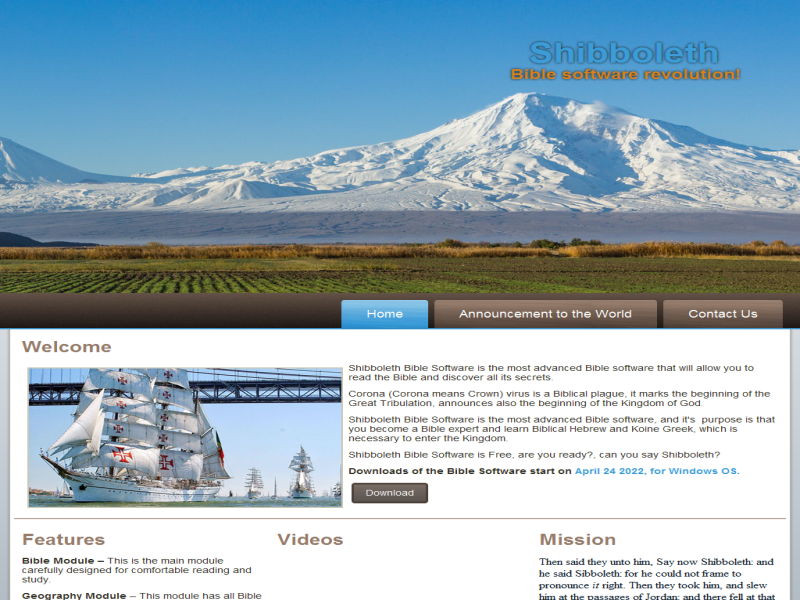
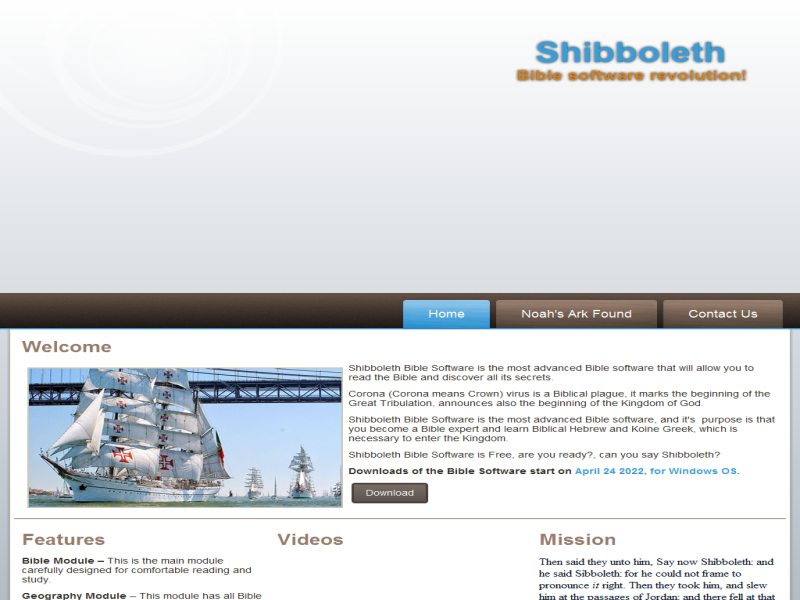
5

diff --git a/noahs-ark-found.html b/noahs-ark-found.html
@@ -1,0 +1,79 @@
+<!DOCTYPE html>
+<html dir="ltr" lang="en-US"><head><!-- Created by Artisteer v4.3.0.60858 -->
+    <meta charset="utf-8">
+    <title>Announcement to the World</title>
+    <meta name="viewport" content="initial-scale = 1.0, maximum-scale = 1.0, user-scalable = no, width = device-width">
+
+    <!--[if lt IE 9]><script src="https://html5shiv.googlecode.com/svn/trunk/html5.js"></script><![endif]-->
+    <link rel="stylesheet" href="style.css" media="screen">
+    <!--[if lte IE 7]><link rel="stylesheet" href="style.ie7.css" media="screen" /><![endif]-->
+    <link rel="stylesheet" href="style.responsive.css" media="all">
+
+<link rel="shortcut icon" href="favicon.ico" type="image/x-icon">
+    <script src="jquery.js"></script>
+    <script src="script.js"></script>
+    <script src="script.responsive.js"></script>
+<script src="https://www.w3counter.com/tracker.js?id=135801"></script>
+
+
+</head>
+<body>
+<div id="art-main">
+<header class="art-header">
+
+    <div class="art-shapes">
+        
+            </div>
+
+<h1 class="art-headline">
+    <a href="/">Shibboleth</a>
+</h1>
+<h2 class="art-slogan">Bible software revolution!</h2>
+
+
+
+
+
+                        
+                    
+</header>
+<nav class="art-nav">
+    <div class="art-nav-inner">
+    <ul class="art-hmenu"><li><a href="software.html" class="">Home</a></li><li><a href="noahs-ark-found.html" class="active">Noah's Ark Found</a></li><li><a href="contact.html">Contact Us</a></li></ul> 
+        </div>
+    </nav>
+<div class="art-sheet clearfix">
+            <div class="art-layout-wrapper">
+                <div class="art-content-layout">
+                    <div class="art-content-layout-row">
+                        <div class="art-layout-cell art-content"><article class="art-post art-article">
+                                
+                                                
+                <div class="art-postcontent art-postcontent-0 clearfix"><p style="padding-left: 20px; font-weight: 400; background-color: rgb(255, 255, 255);"><span style="font-weight: bold; font-size: 24px; color: rgb(59, 156, 216);">The Shibboleth Group announces the discovery of Noah's Ark.</span></p><p style="padding-left: 20px; background-color: rgb(255, 255, 255);"><span style="color: rgb(153, 153, 153); font-size: 13.0013px; text-align: start; white-space: nowrap; background-color: rgb(255, 255, 255); font-family: Arial; font-weight: bold;">24 Mar, 2022&nbsp;</span></p><p style="text-align: start;padding-left: 20px; background-color: rgb(255, 255, 255);"><span style="color: rgb(153, 153, 153); font-family: Arial; font-size: 13px; font-weight: bold; white-space: nowrap;"><br></span></p><p class="chapter-1" style="padding-left: 20px; box-sizing: border-box; color: rgb(0, 0, 0); text-align: start; background-color: rgb(255, 255, 255);"><span style="font-weight: bold; font-size: 16px;">The Shibboleth Group announces that &nbsp;we have found Noah's Ark has on Mount Ararat, exactly where the Bible says, and in the next days we will publish the first pictures of the site.</span></p><p class="chapter-1" style="padding-left: 20px; box-sizing: border-box; color: rgb(0, 0, 0); text-align: start; background-color: rgb(255, 255, 255);"><span style="font-weight: bold; font-size: 16px;">The Shibboleth Group announces to the World that the Tabernacle of Moses is actually a 1/361 scale model of the Ararat Plain, including Mount Ararat and Little Ararat.</span></p><p class="chapter-1" style="padding-left: 20px; box-sizing: border-box; color: rgb(0, 0, 0); text-align: start; background-color: rgb(255, 255, 255);"><span style="font-size: 16px; font-weight: bold;">The Tabernacle of Moses is actually a 3D Map, with exact proportions and orientation, using this map we were able to find the exact location of Noah's Ark.</span></p><p class="chapter-1" style="padding-left: 20px; box-sizing: border-box; color: rgb(0, 0, 0); text-align: start; background-color: rgb(255, 255, 255);"><iframe class="rumble" width="640" height="360" src="https://rumble.com/embed/vvol55/?pub=111wn3" frameborder="0" allowfullscreen=""></iframe></p><p class="chapter-1" style="padding-left: 20px; box-sizing: border-box; color: rgb(0, 0, 0); text-align: start; background-color: rgb(255, 255, 255);">Mount Ararat is a stratovolcano, similar to Mount Vesuvius that preserverd Pompey, there were 4 eruptions recorded in history the first in 2500 BC, the Second in 550 BC, the last in 1840. The Ark was preserved under 4 layers of Ash.</p><p class="chapter-1" style="padding-left: 20px; box-sizing: border-box; color: rgb(0, 0, 0); text-align: start; background-color: rgb(255, 255, 255);"><img width="700" height="358" alt="" class="art-lightbox" src="images/ark.png"><br></p><p class="chapter-1" style="padding-left: 20px; box-sizing: border-box; color: rgb(0, 0, 0); text-align: start; background-color: rgb(255, 255, 255);"><br></p><p class="chapter-1" style="padding-left: 20px; box-sizing: border-box; color: rgb(0, 0, 0); text-align: start; background-color: rgb(255, 255, 255);">This discovery confirms what the Bible says:</p><p class="chapter-1" style="margin-top: 12px; margin-right: 0px; margin-bottom: 12px; margin-left: 0px; padding-top: 0px; padding-right: 0px; padding-bottom: 0px; padding-left: 20px; box-sizing: border-box; color: rgb(0, 0, 0); text-align: start; background-color: rgb(255, 255, 255);"><span style="font-weight: bold; font-size: 16px; color: rgb(59, 156, 216);">Genesis 8:4</span></p><p class="chapter-1" style="margin-top: 12px; margin-right: 0px; margin-bottom: 12px; margin-left: 0px; padding-top: 0px; padding-right: 0px; padding-bottom: 0px; padding-left: 20px; box-sizing: border-box; text-align: start; background-color: rgb(255, 255, 255);"><span style="font-size: 16px; font-weight: bold; color: rgb(59, 156, 216);">And the ark rested in the seventh month, on the seventeenth day of the month, upon the mountains of Ararat.</span></p><p class="chapter-1" style="margin-top: 12px; margin-right: 0px; margin-bottom: 12px; margin-left: 0px; padding-top: 0px; padding-right: 0px; padding-bottom: 0px; padding-left: 20px; box-sizing: border-box; text-align: start; background-color: rgb(255, 255, 255);"><span style="font-size: 16px; font-weight: bold; color: rgb(59, 156, 216);"><br></span></p><p class="chapter-1" style="padding-left: 20px; box-sizing: border-box; color: rgb(0, 0, 0); text-align: start; background-color: rgb(255, 255, 255);"><img width="965" height="603" alt="" class="art-lightbox" src="images/ark2.png"><br></p><p class="chapter-1" style="padding-left: 20px; box-sizing: border-box; color: rgb(0, 0, 0); text-align: start; background-color: rgb(255, 255, 255);"><br></p><p class="chapter-1" style="padding-left: 20px; box-sizing: border-box; color: rgb(0, 0, 0); text-align: start; background-color: rgb(255, 255, 255);">We also announce that Mount Ararat and Little Ararat are actually an Astronomical machine, designed precisely, that ONLY on december 24 every year the sun rises over Little Ararat watching from the summit of Mount Ararat.</p><p class="chapter-1" style="padding-left: 20px; box-sizing: border-box; color: rgb(0, 0, 0); text-align: start; background-color: rgb(255, 255, 255);">This is very important, first this confirms that this is the Authentic place Where the Ark rested, Little Ararat is represented by the Burnt offering Altar that represents JESUS, and Jesus' birth date is confirmed as december 24.</p><p class="chapter-1" style="padding-left: 20px; box-sizing: border-box; color: rgb(0, 0, 0); text-align: start; background-color: rgb(255, 255, 255);"><br></p><p class="chapter-1" style="padding-left: 20px; box-sizing: border-box; color: rgb(0, 0, 0); text-align: start; background-color: rgb(255, 255, 255);"><img width="699" height="393" alt="" class="art-lightbox" src="images/Untitled_snapshot_03-24-2022_17_29_49.jpeg"><br></p><p class="chapter-1" style="padding-left: 20px; box-sizing: border-box; color: rgb(0, 0, 0); text-align: start; background-color: rgb(255, 255, 255);">This without doubt is the greatest discovery in Human History and it's implications are uncalculable.</p><p class="chapter-1" style="padding-left: 20px; box-sizing: border-box; color: rgb(0, 0, 0); text-align: start; background-color: rgb(255, 255, 255);"><br></p><p class="chapter-1" style="padding-left: 20px; box-sizing: border-box; color: rgb(0, 0, 0); text-align: start; background-color: rgb(255, 255, 255);"><a href="https://earth.google.com/web/search/39.7270965,+44.2370825/@39.72606185,44.23484865,3291.25965016a,4353.94615716d,35y,133.11970686h,45.02264945t,0r/data=CloaMBIqGZ1EhH8R3UNAIRr6J7hYHkZAKhYzOS43MjcwOTY1LCA0NC4yMzcwODI1GAIgASImCiQJD9YckDPfQ0ARY_T9IZjZQ0AZsMaASTAnRkAhj6zy8C8YRkA">Click here to See on Google Earth</a></p><p class="chapter-1" style="padding-left: 20px; box-sizing: border-box; color: rgb(0, 0, 0); text-align: start; background-color: rgb(255, 255, 255);"><br></p><p class="media-description" style="margin-top: 1rem; margin-right: 0px; margin-bottom: 1rem; margin-left: 0px; orphans: 2; text-align: start; text-indent: 0px; widows: 2; padding-left: 20px;"><a href="https://mybible.eu.org/kml/ararat.kml"></a><span style="color: rgb(51, 51, 51); font-size: 16px; line-height: 32px;"></span></p><p class="media-description" style="margin-top: 1rem; margin-right: 0px; margin-bottom: 1rem; margin-left: 0px; orphans: 2; text-align: start; text-indent: 0px; widows: 2; padding-left: 20px;"><span style="color: rgb(51, 51, 51); font-size: 16px; line-height: 32px;">Coordinates:&nbsp;</span><span style="color: rgb(51, 51, 51); font-size: 16px; line-height: 32px;">39.7270965, 44.2370825</span></p><p class="media-description" style="margin-top: 1rem; margin-right: 0px; margin-bottom: 1rem; margin-left: 0px; orphans: 2; text-align: start; text-indent: 0px; widows: 2; padding-left: 20px;"><span style="color: rgb(51, 51, 51); font-size: 16px; line-height: 32px;">Armenian Geographic will send an expedition to the site site and publish the first pictures.</span></p><p class="media-description" style="margin-top: 1rem; margin-right: 0px; margin-bottom: 1rem; margin-left: 0px; orphans: 2; text-align: start; text-indent: 0px; widows: 2; padding-left: 20px;"><a href="https://www.armgeo.am/en/our-project/">https://www.armgeo.am/en/climbing-ararat/</a><span style="color: rgb(51, 51, 51); font-size: 16px; line-height: 32px;"><br></span></p><p class="media-description" style="margin-top: 1rem; margin-right: 0px; margin-bottom: 1rem; margin-left: 0px; orphans: 2; text-align: start; text-indent: 0px; widows: 2; padding-left: 20px;"><a href="https://www.mountain-forecast.com/peaks/Mount-Ararat/forecasts/5137">https://www.mountain-forecast.com/peaks/Mount-Ararat/forecasts/5137</a><br></p><p class="media-description" style="margin-top: 1rem; margin-right: 0px; margin-bottom: 1rem; margin-left: 0px; orphans: 2; text-align: start; text-indent: 0px; widows: 2; padding-left: 20px;"><br></p><p class="media-description" style="margin-top: 1rem; margin-right: 0px; margin-bottom: 1rem; margin-left: 0px; orphans: 2; text-align: start; text-indent: 0px; widows: 2; padding-left: 20px;"><br></p><p class="media-description" style="margin-top: 1rem; margin-right: 0px; margin-bottom: 1rem; margin-left: 0px; orphans: 2; text-align: start; text-indent: 0px; widows: 2; padding-left: 20px;"><span style="font-weight: bold; color: #E2341D;">Very Short Briefing:</span></p><p class="media-description" style="margin-top: 1rem; margin-right: 0px; margin-bottom: 1rem; margin-left: 0px; orphans: 2; text-align: start; text-indent: 0px; widows: 2; padding-left: 20px;"><span style="font-weight: bold;"><br></span></p><p class="media-description" style="margin-top: 1rem; margin-right: 0px; margin-bottom: 1rem; margin-left: 0px; orphans: 2; text-align: start; text-indent: 0px; widows: 2; padding-left: 20px;">When you have been working with the Tabernacle a lot, you immediately note that the Ararat plain looks like the Tabernacle of Moses, the tabernacle, if you ever read the Bible, has very specific proportions, so Noah's Ark.</p><p class="media-description" style="margin-top: 1rem; margin-right: 0px; margin-bottom: 1rem; margin-left: 0px; orphans: 2; text-align: start; text-indent: 0px; widows: 2; padding-left: 20px;">&nbsp;<img width="700" height="465" alt="" class="art-lightbox" src="images/0902175221963-c65c2257-e3d0-43bb-8d62-c9cdc3336596.jpg"><br></p><p class="media-description" style="margin-top: 1rem; margin-right: 0px; margin-bottom: 1rem; margin-left: 0px; orphans: 2; text-align: start; text-indent: 0px; widows: 2; padding-left: 20px;"><img width="700" height="466" alt="" class="art-lightbox" src="images/Tabernacle-exterior01a.jpg"><br></p><p class="media-description" style="margin-top: 1rem; margin-bottom: 1rem; padding-left: 20px; text-align: start;">The tabernacle of Moses is a map and was made with specific dimensions, so some Christian reading the Bible would eventually locate Noah's Ark, using the Map.</p><p class="media-description" style="margin-top: 1rem; margin-bottom: 1rem; padding-left: 20px; text-align: start;">The Tabernacle Tent represents Mount Ararat and the Altar of the burnt offering represents little Ararat.</p><p class="media-description" style="margin-top: 1rem; margin-bottom: 1rem; padding-left: 20px; text-align: start;"><br></p><p class="media-description" style="margin-top: 1rem; margin-bottom: 1rem; padding-left: 20px; text-align: start;">First, the proportions must be the same let's see, lets measure mount Ararat's and little Ararat heights (prominence over the Ararat plain)</p><p class="media-description" style="margin-top: 1rem; margin-bottom: 1rem; padding-left: 20px; text-align: start;"><br></p><p class="media-description" style="margin-top: 1rem; margin-bottom: 1rem; padding-left: 20px; text-align: start;"><span style="font-family: Arial;">Mount ararat prominence=&nbsp;<span style="color: rgb(0, 0, 0); font-weight: 400; text-align: left; background-color: rgb(248, 249, 250);">3,611 M</span></span></p><p class="media-description" style="margin-top: 1rem; margin-bottom: 1rem; padding-left: 20px; text-align: start;"><span style="font-family: Arial;"><span style="color: rgb(0, 0, 0); font-weight: 400; text-align: left; background-color: rgb(248, 249, 250);">Little Ararat Prominence = 1200M</span></span></p><p class="media-description" style="margin-top: 1rem; margin-bottom: 1rem; padding-left: 20px; text-align: start;"><br></p><p class="media-description" style="margin-top: 1rem; margin-bottom: 1rem; padding-left: 20px; text-align: start;"><span style="font-family: Arial;"><span style="color: rgb(0, 0, 0); font-weight: 400; text-align: left; background-color: rgb(248, 249, 250);">ratio = 3611/1200 = 3.009</span></span></p><p class="media-description" style="margin-top: 1rem; margin-bottom: 1rem; padding-left: 20px; text-align: start;"><br></p><p class="media-description" style="margin-top: 1rem; margin-bottom: 1rem; padding-left: 20px; text-align: start;"><span style="font-family: Arial;"><span style="color: rgb(0, 0, 0); font-weight: 400; text-align: left; background-color: rgb(248, 249, 250);">Tabernacle Height= 10 cubits</span></span></p><p class="media-description" style="margin-top: 1rem; margin-bottom: 1rem; padding-left: 20px; text-align: start;"><span style="font-family: Arial;"><span style="color: rgb(0, 0, 0); font-weight: 400; text-align: left; background-color: rgb(248, 249, 250);">Altar of burnt offering height= 3 cubits</span></span></p><p class="media-description" style="margin-top: 1rem; margin-bottom: 1rem; padding-left: 20px; text-align: start;"><br></p><p class="media-description" style="margin-top: 1rem; margin-bottom: 1rem; padding-left: 20px; text-align: start;"><span style="font-family: Arial;"><span style="color: rgb(0, 0, 0); font-weight: 400; text-align: left; background-color: rgb(248, 249, 250);">ratio = 10/3 = 3.33</span></span></p><p class="media-description" style="margin-top: 1rem; margin-bottom: 1rem; padding-left: 20px; text-align: start;"><br></p><p class="media-description" style="margin-top: 1rem; margin-bottom: 1rem; padding-left: 20px; text-align: start;"><span style="font-family: Arial;"><span style="color: rgb(0, 0, 0); font-weight: 400; text-align: left; background-color: rgb(248, 249, 250);">So far so good, good approximation, the approximation is even better, but this will be explained later.</span></span></p><p class="media-description" style="text-align: left;margin-top: 1rem; margin-bottom: 1rem; padding-left: 20px;"><span style="color: rgb(0, 0, 0); font-family: Arial;"><br></span></p><p class="media-description" style="margin-top: 1rem; margin-right: 0px; margin-bottom: 1rem; margin-left: 0px; orphans: 2; text-align: start; text-indent: 0px; widows: 2; padding-left: 20px;">The orientation:</p><p class="media-description" style="margin-top: 1rem; margin-right: 0px; margin-bottom: 1rem; margin-left: 0px; orphans: 2; text-align: start; text-indent: 0px; widows: 2; padding-left: 20px;">Being the Tabernacle a scale model of the Ararat Plain, and the tabernacle has a specific orientation, this must be the same orientation for Mount Ararat and Little ararat.</p><p class="media-description" style="margin-top: 1rem; margin-right: 0px; margin-bottom: 1rem; margin-left: 0px; orphans: 2; text-align: start; text-indent: 0px; widows: 2; padding-left: 20px;"><br></p><p class="media-description" style="margin-top: 1rem; margin-right: 0px; margin-bottom: 1rem; margin-left: 0px; orphans: 2; text-align: start; text-indent: 0px; widows: 2; padding-left: 20px;"><img width="500" height="283" alt="" class="art-lightbox" src="images/1.jpg"><br></p><p class="media-description" style="margin-top: 1rem; margin-right: 0px; margin-bottom: 1rem; margin-left: 0px; orphans: 2; text-align: start; text-indent: 0px; widows: 2; padding-left: 20px;">The orientation was determined by the sunrise.</p><p class="media-description" style="margin-top: 1rem; margin-right: 0px; margin-bottom: 1rem; margin-left: 0px; orphans: 2; text-align: start; text-indent: 0px; widows: 2; padding-left: 20px;">So the Sun must rise over the Altar of the burnt offering watching from the summit of Mount Ararat.</p><p class="media-description" style="margin-top: 1rem; margin-right: 0px; margin-bottom: 1rem; margin-left: 0px; orphans: 2; text-align: start; text-indent: 0px; widows: 2; padding-left: 20px;">Lets see:</p><p class="media-description" style="margin-top: 1rem; margin-right: 0px; margin-bottom: 1rem; margin-left: 0px; orphans: 2; text-align: start; text-indent: 0px; widows: 2; padding-left: 20px;"><iframe class="rumble" width="640" height="360" src="https://rumble.com/embed/vw4dwu/?pub=111wn3" frameborder="0" allowfullscreen=""></iframe><br></p><p class="media-description" style="margin-top: 1rem; margin-right: 0px; margin-bottom: 1rem; margin-left: 0px; orphans: 2; text-align: start; text-indent: 0px; widows: 2; padding-left: 20px;">Remember that the sunrise changes during the year</p><p class="media-description" style="margin-top: 1rem; margin-right: 0px; margin-bottom: 1rem; margin-left: 0px; orphans: 2; text-align: start; text-indent: 0px; widows: 2; padding-left: 20px;">Also the Only day, every year, that the sun rises exactly over Little Ararat is December 24.</p><p class="media-description" style="margin-top: 1rem; margin-right: 0px; margin-bottom: 1rem; margin-left: 0px; orphans: 2; text-align: start; text-indent: 0px; widows: 2; padding-left: 20px;"><br></p><p class="media-description" style="margin-top: 1rem; margin-right: 0px; margin-bottom: 1rem; margin-left: 0px; orphans: 2; text-align: start; text-indent: 0px; widows: 2; padding-left: 20px;">Protection:</p><p class="media-description" style="margin-top: 1rem; margin-right: 0px; margin-bottom: 1rem; margin-left: 0px; orphans: 2; text-align: start; text-indent: 0px; widows: 2; padding-left: 20px;">The Bible says that the Ark was protected by 4 layers, see image</p><p class="media-description" style="margin-top: 1rem; margin-right: 0px; margin-bottom: 1rem; margin-left: 0px; orphans: 2; text-align: start; text-indent: 0px; widows: 2; padding-left: 20px;"><img width="699" height="424" alt="" class="art-lightbox" src="images/2.jpg"><br></p><p class="media-description" style="margin-top: 1rem; margin-right: 0px; margin-bottom: 1rem; margin-left: 0px; orphans: 2; text-align: start; text-indent: 0px; widows: 2; padding-left: 20px;">First layer is fine linen, second layer is Goat's hair, third layer is Ram skin, and the last is Badger skin (very hard).</p><p class="media-description" style="margin-top: 1rem; margin-right: 0px; margin-bottom: 1rem; margin-left: 0px; orphans: 2; text-align: start; text-indent: 0px; widows: 2; padding-left: 20px;">This means that Noah's Ark was protected by 4 volcanic eruptions, first 3 are soft ash, and the last one is a harder lava layer.</p><p class="media-description" style="margin-top: 1rem; margin-right: 0px; margin-bottom: 1rem; margin-left: 0px; orphans: 2; text-align: start; text-indent: 0px; widows: 2; padding-left: 20px;">Mount Ararat has erupted 4 times in the years 2500 BC, 550 BC, 1450 AD, 1840 AD.</p><p class="media-description" style="margin-top: 1rem; margin-right: 0px; margin-bottom: 1rem; margin-left: 0px; orphans: 2; text-align: start; text-indent: 0px; widows: 2; padding-left: 20px;"><br></p><p class="media-description" style="margin-top: 1rem; margin-right: 0px; margin-bottom: 1rem; margin-left: 0px; orphans: 2; text-align: start; text-indent: 0px; widows: 2; padding-left: 20px;">The Holy place and the Most holy Place</p><p class="media-description" style="margin-top: 1rem; margin-right: 0px; margin-bottom: 1rem; margin-left: 0px; orphans: 2; text-align: start; text-indent: 0px; widows: 2; padding-left: 20px;">The Tent of the Tabernacle is divided in two parts the Holy Place and the Most Holy Place (Holy of holies) separated by a veil, if the Tent of the tabernacle represents Mount ararat, what this division means?</p><p class="media-description" style="margin-top: 1rem; margin-right: 0px; margin-bottom: 1rem; margin-left: 0px; orphans: 2; text-align: start; text-indent: 0px; widows: 2; padding-left: 20px;"><br></p><p class="media-description" style="margin-top: 1rem; margin-right: 0px; margin-bottom: 1rem; margin-left: 0px; orphans: 2; text-align: start; text-indent: 0px; widows: 2; padding-left: 20px;"><img width="499" height="293" alt="" class="art-lightbox" src="images/1.png"><br></p><p class="media-description" style="margin-top: 1rem; margin-right: 0px; margin-bottom: 1rem; margin-left: 0px; orphans: 2; text-align: start; text-indent: 0px; widows: 2; padding-left: 20px;">This means that Mount Ararat is divided in Two parts.</p><p class="media-description" style="margin-top: 1rem; margin-right: 0px; margin-bottom: 1rem; margin-left: 0px; orphans: 2; text-align: start; text-indent: 0px; widows: 2; padding-left: 20px;"><img width="700" height="376" alt="" class="art-lightbox" src="images/2.png"><br></p><p class="media-description" style="margin-top: 1rem; margin-right: 0px; margin-bottom: 1rem; margin-left: 0px; orphans: 2; text-align: start; text-indent: 0px; widows: 2; padding-left: 20px;">The veil means that you can not see between the two areas, the summit blocks the view from the other Area.</p><p class="media-description" style="margin-top: 1rem; margin-right: 0px; margin-bottom: 1rem; margin-left: 0px; orphans: 2; text-align: start; text-indent: 0px; widows: 2; padding-left: 20px;"><br></p><p class="media-description" style="margin-top: 1rem; margin-right: 0px; margin-bottom: 1rem; margin-left: 0px; orphans: 2; text-align: start; text-indent: 0px; widows: 2; padding-left: 20px;"><br></p><p class="media-description" style="margin-top: 1rem; margin-right: 0px; margin-bottom: 1rem; margin-left: 0px; orphans: 2; text-align: start; text-indent: 0px; widows: 2; padding-left: 20px;"><span style="font-family: Arial; font-size: 16px; font-weight: bold; line-height: 38px; color: rgb(0, 0, 0);">More information soon... spread the news to the Christian Churches.</span><br></p><p class="media-description" style="margin-top: 1rem; margin-right: 0px; margin-bottom: 1rem; margin-left: 0px; orphans: 2; text-align: start; text-indent: 0px; widows: 2; padding-left: 20px;"><span style="font-family: Arial; font-size: 16px; font-weight: bold; line-height: 38px; color: rgb(0, 0, 0);"><br></span></p><p class="media-description" style="margin-top: 1rem; margin-right: 0px; margin-bottom: 1rem; margin-left: 0px; orphans: 2; text-align: start; text-indent: 0px; widows: 2; padding-left: 20px;"><iframe width="560" height="315" src="https://www.youtube.com/embed/xkQSarQQgMc?wmode=transparent&amp;amp;wmode=transparent&amp;amp;wmode=transparent&amp;amp;wmode=transparent&amp;amp;wmode=transparent&amp;amp;wmode=transparent&amp;amp;wmode=transparent&amp;amp;wmode=transparent&amp;amp;wmode=transparent&amp;amp;wmode=transparent&amp;amp;wmode=transparent&amp;amp;wmode=transparent&amp;amp;wmode=transparent&amp;amp;wmode=transparent&amp;amp;wmode=transparent&amp;amp;wmode=transparent&amp;amp;wmode=transparent" title="YouTube video player" frameborder="0" allow="accelerometer; autoplay; clipboard-write; encrypted-media; gyroscope; picture-in-picture" allowfullscreen=""></iframe><span style="font-family: Arial; font-size: 16px; font-weight: bold; line-height: 38px; color: rgb(0, 0, 0);"><br></span></p><p><br></p></div>
+                                
+                
+
+</article></div>
+                    </div>
+                </div>
+            </div>
+    </div>
+<footer class="art-footer">
+  <div class="art-footer-inner">
+<div class="art-content-layout">
+    <div class="art-content-layout-row">
+    <div class="art-layout-cell layout-item-0" style="width: 12%">
+        <p><a href="#" class="art-rss-tag-icon" style="line-height: 38px;">RSS</a><br></p>
+    </div><div class="art-layout-cell layout-item-1" style="width: 88%">
+        <p>Shibboleth Bible Software 2022, Lisbon Portugal</p>
+    </div>
+    </div>
+</div>
+
+  </div>
+</footer>
+
+</div>
+
+
+</body></html>

diff --git a/contact.html b/contact.html
@@ -76,7 +76,7 @@ StatCounter"></a></div></noscript>
 </header>
 <nav class="art-nav">
     <div class="art-nav-inner">
-    <ul class="art-hmenu"><li><a href="software.html" class="">Home</a></li><li><a href="announcement-to-the-world.html" class="">Announcement to the World</a></li><li><a href="contact.html" class="active">Contact Us</a></li></ul> 
+    <ul class="art-hmenu"><li><a href="software.html" class="">Home</a></li><li><a href="noahs-ark-found.html" class="">Noah's Ark Found</a></li><li><a href="contact.html" class="active">Contact Us</a></li></ul> 
         </div>
     </nav>
 <div class="art-sheet clearfix">

diff --git a/index.html b/index.html
@@ -339,7 +339,7 @@ height: 10px;
 </header>
 <nav class="art-nav">
     <div class="art-nav-inner">
-    <ul class="art-hmenu"><li><a href="software.html" class="active">Home</a></li><li><a href="announcement-to-the-world.html">Announcement to the World</a></li><li><a href="contact.html">Contact Us</a></li></ul> 
+    <ul class="art-hmenu"><li><a href="software.html" class="active">Home</a></li><li><a href="noahs-ark-found.html">Noah's Ark Found</a></li><li><a href="contact.html">Contact Us</a></li></ul> 
         </div>
     </nav>
 <div class="art-sheet clearfix">

diff --git a/software.html b/software.html
@@ -339,7 +339,7 @@ height: 10px;
 </header>
 <nav class="art-nav">
     <div class="art-nav-inner">
-    <ul class="art-hmenu"><li><a href="software.html" class="active">Home</a></li><li><a href="announcement-to-the-world.html">Announcement to the World</a></li><li><a href="contact.html">Contact Us</a></li></ul> 
+    <ul class="art-hmenu"><li><a href="software.html" class="active">Home</a></li><li><a href="noahs-ark-found.html">Noah's Ark Found</a></li><li><a href="contact.html">Contact Us</a></li></ul> 
         </div>
     </nav>
 <div class="art-sheet clearfix">
